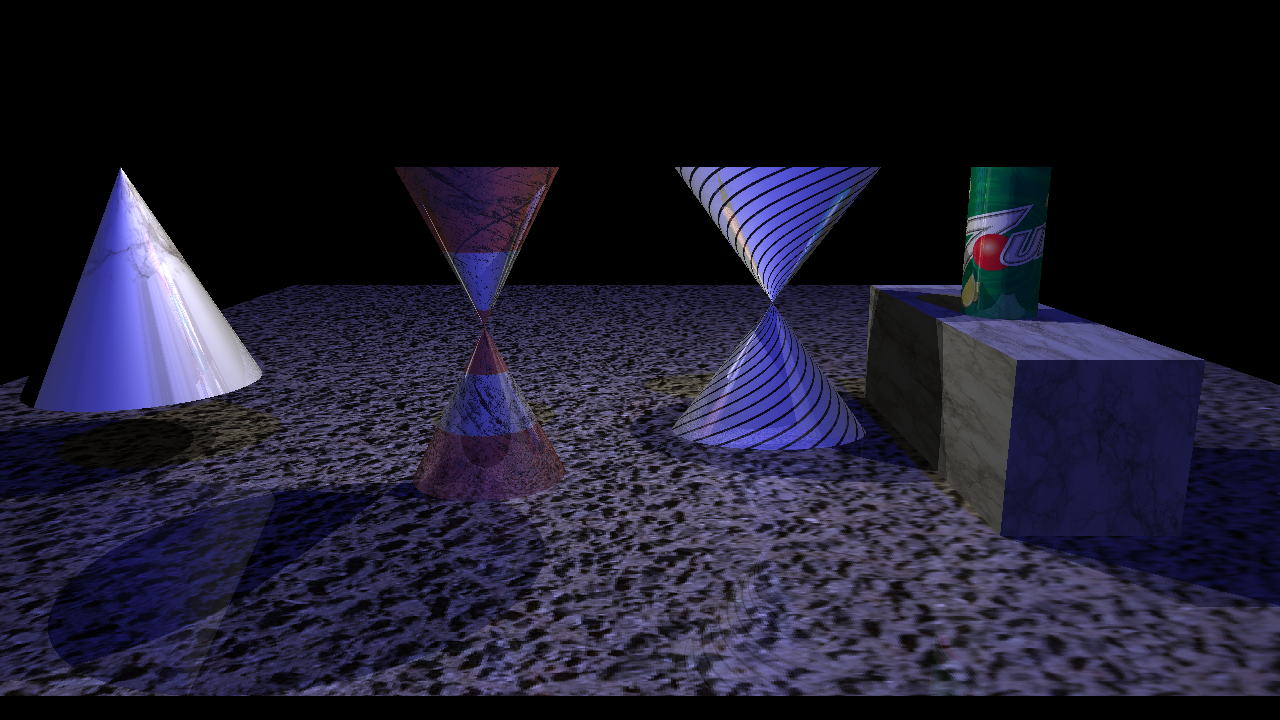
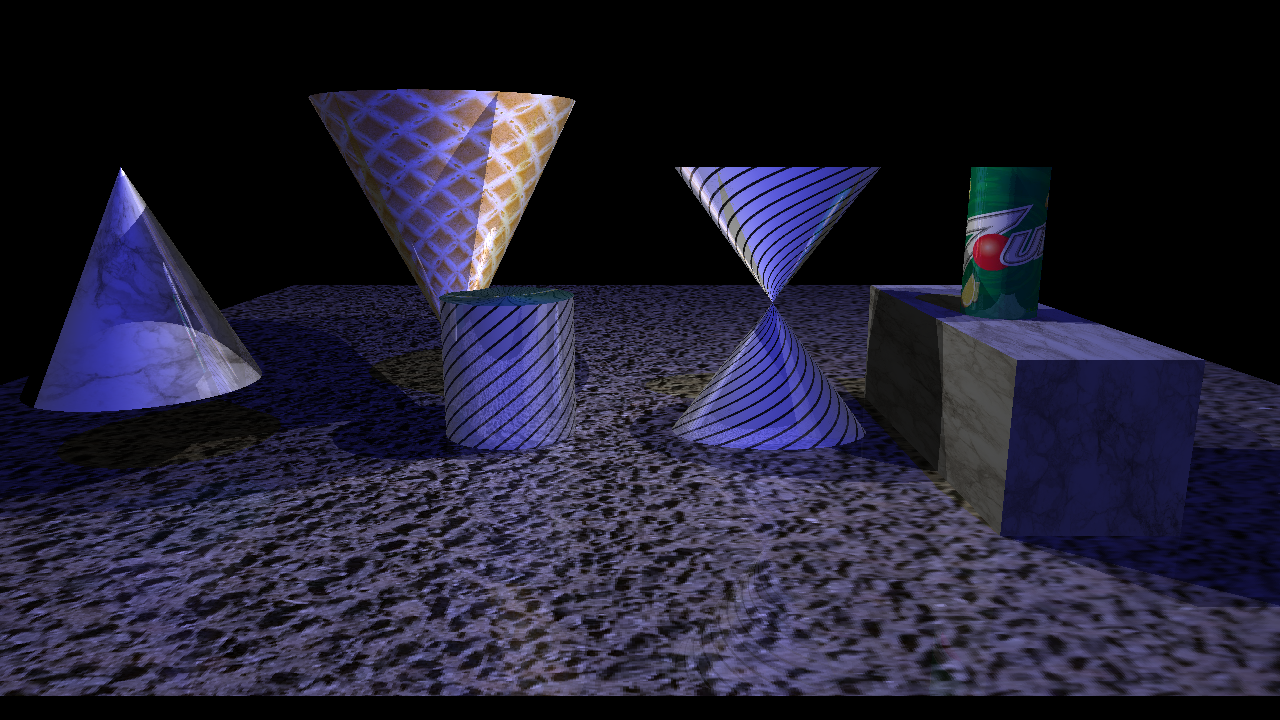
Temp commit - working on bugs in textures of cones and cylinders

Changed region(s): [[0.0, 0.1222, 0.4688, 0.9778], [0.5312, 0.4583, 0.5938, 0.6111], [0.5312, 0.2139, 0.5938, 0.3667]]

diff --git a/src/Cone.cpp b/src/Cone.cpp
@@ -8,7 +8,6 @@
 #include "Cone.h"
 
 
-
 bool Cone::intersectsRay(Ray &r, GLfloat &dist, vec3* point, vec3* normal, ObjectTexColors* texColors, ObjectProperties* properties)
 {
 	// To find intersection between Ray and canonical Cone (aligned to the y-axis), we need to solve the following equation:
@@ -22,10 +21,14 @@ bool Cone::intersectsRay(Ray &r, GLfloat &dist, vec3* point, vec3* normal, Objec
 	Ray tr = this->invTransform() * r; // Transformed ray
 	GLfloat A, B, C;
 	GLfloat discriminant, disc_root;
-	GLfloat t1 = INFINITY, t2 = INFINITY, t3 = INFINITY, t4 = INFINITY, t = INFINITY;
+	GLfloat t1 = INFINITY, t2 = INFINITY, t3 = INFINITY, t4 = INFINITY;
 	vec3    ip, ip2; // Intersection points
 
 	bool single_intersection = false;
+
+
+
+	GLfloat t_min = INFINITY, t_max = INFINITY;
 
 	A = (tr.direction.x*tr.direction.x) + (tr.direction.z*tr.direction.z) - (tr.direction.y*tr.direction.y);
 	B = (2*tr.origin.x*tr.direction.x) + (2*tr.origin.z*tr.direction.z) - (2*tr.origin.y*tr.direction.y);
@@ -45,7 +48,7 @@ bool Cone::intersectsRay(Ray &r, GLfloat &dist, vec3* point, vec3* normal, Objec
 	if (abs(t1 - t2) < EPSILON) {
 		// same solution
 		single_intersection = true;
-		t = t1;
+		t_min = t1;
 	}
 	else if (t1 > EPSILON && t2 > EPSILON) {
 		// Both positive
@@ -55,10 +58,10 @@ bool Cone::intersectsRay(Ray &r, GLfloat &dist, vec3* point, vec3* normal, Objec
 		// One positive, one negative
 		// or 2 negatives
 		single_intersection = true;
-		t = glm::max(t1, t2);
+		t_min = glm::max(t1, t2);
 	}
 
-	if (t < EPSILON) {
+	if (t_min < EPSILON) {
 		// If dist is a negative values (accounting for floating point errors)
 		// then both solutions were negative. Meaning we have to go back from the origin of
 		// the ray (against its direction) to the intersection point - which means of course that
@@ -66,8 +69,10 @@ bool Cone::intersectsRay(Ray &r, GLfloat &dist, vec3* point, vec3* normal, Objec
 		return false;
 	}
 
+
+
 	if (single_intersection) {
-		ip = tr.origin + t * tr.direction;
+		ip = tr.origin + t_min * tr.direction;
 		if (ip.y > maxCap || ip.y < minCap){
 			return false;
 		}
@@ -75,16 +80,21 @@ bool Cone::intersectsRay(Ray &r, GLfloat &dist, vec3* point, vec3* normal, Objec
 	}
 	else { // 2 intersections
 
-		GLfloat t_min, t_max;
+//		GLfloat /*t_min, t_max;
 		t_min = glm::min(t1,t2);
 		t_max = glm::max(t1,t2);
 
 		ip  = tr.origin + t_min * tr.direction;
 		ip2 = tr.origin + t_max * tr.direction;
 
+
+
 		if ((ip.y > maxCap && ip2.y > maxCap) || (ip.y < minCap && ip2.y < minCap) ){ // both intersection are on infinite cone (behind min or beyond max caps)
 			return false;
 		}
+
+//		printf("IP  (%f, %f, %f)\n", ip.x, ip.y, ip.z);
+//		printf("IP2 (%f, %f, %f)\n", ip2.x, ip2.y, ip2.z);
 
 		if ((ip.y < minCap && ip2.y > minCap) || (ip.y > minCap && ip2.y < minCap)) { // min cap intersection
 			t3 = (minCap - tr.origin.y) / tr.direction.y;
@@ -95,6 +105,9 @@ bool Cone::intersectsRay(Ray &r, GLfloat &dist, vec3* point, vec3* normal, Objec
 		}
 
 		t_min = glm::min(t_min, glm::min(t3,t4));
+//		if (ip.y < minCap) {
+//			t_min = t3;
+//		}
 		ip  = tr.origin + t_min * tr.direction;
 	}
 
@@ -117,9 +130,37 @@ bool Cone::intersectsRay(Ray &r, GLfloat &dist, vec3* point, vec3* normal, Objec
 	if (texColors) {
 
 		vec2 uv;
-		uv.x = (atan2(ip2.x, ip2.z) + PI) / (2*PI);
-		uv.y = 0.5 + (ip2.y) / (height);
-		uv = glm::clamp(uv, 0.f, 1.f);
+		uv.x = 0.5 + atan2(ip2.x, ip2.z) / (2*PI); // == (atan2(ip2.x, ip2.z) + PI) / (2*PI)
+		uv.y = (ip2.y - minCap) / (height);
+
+		if (uv.y < 0 || uv.y > 1 || uv.x < 0 || uv.x > 1) {
+//			printf("--------------------------\n");
+//			printf("IP: %f\n", ip.y);
+//			printf("IP2: %f\n", ip2.y);
+//			printf("(%f, %f)\n", uv.x, uv.y);
+//			printf("t1: %f\n", t1);
+//			printf("t2: %f\n", t2);
+//			printf("t3: %f\n", t3);
+//			printf("t4: %f\n", t4);
+//			printf("tmin: %f\n", t_min);
+//			printf("tmax: %f\n", t_max);
+//			printf("disc: %f\n", discriminant);
+//			printf("--------------------------\n");
+		}
+		if (ip2.y == minCap) {
+//			printf("*******************\n");
+//			printf("IP: %f\n", ip.y);
+//			printf("IP2: %f\n", ip2.y);
+//			printf("(%f, %f)\n", uv.x, uv.y);
+//			printf("t1: %f\n", t1);
+//			printf("t2: %f\n", t2);
+//			printf("t3: %f\n", t3);
+//			printf("t4: %f\n", t4);
+//			printf("tmin: %f\n", t_min);
+//			printf("tmax: %f\n", t_max);
+//			printf("disc: %f\n", discriminant);
+//			printf("*******************\n");
+		}
 
 		texColors->_ambientTexColor  = this->getAmbientTextureColor(uv);
 		texColors->_diffuseTexColor  = this->getDiffuseTextureColor(uv);
@@ -132,6 +173,7 @@ bool Cone::intersectsRay(Ray &r, GLfloat &dist, vec3* point, vec3* normal, Objec
 
 	return true;
 }
+
 
 
 vec3 Cone::_normalAt(const vec3& p)
@@ -151,5 +193,6 @@ void Cone::print() const
 	std::cout << "Cone Center: (" << center.x << "," << center.y << "," << center.z << ") | Radius: " << radius << " | minCap: " << minCap << " | Max Cap: " << maxCap << std::endl;
 	Object::print();
 }
+
 
 

diff --git a/src/Cylinder.cpp b/src/Cylinder.cpp
@@ -10,8 +10,6 @@
 
 using namespace glm;
 
-
-
 bool Cylinder::intersectsRay(Ray &r, GLfloat &dist, vec3* point, vec3* normal, ObjectTexColors* texColors, ObjectProperties* properties)
 {
 	// To find intersection between Ray and canonical cylinder (aligned to the y-axis), we need to solve the following equation:
@@ -99,6 +97,12 @@ bool Cylinder::intersectsRay(Ray &r, GLfloat &dist, vec3* point, vec3* normal, O
 		}
 
 		t_min = glm::min(t_min, glm::min(t3,t4));
+		if (ip.y < minCap) {
+					t_min = t3;
+				}
+		if (ip.y > maxCap) {
+			t_min = t4;
+		}
 		ip  = tr.origin + t_min * tr.direction;
 	}
 
@@ -120,12 +124,9 @@ bool Cylinder::intersectsRay(Ray &r, GLfloat &dist, vec3* point, vec3* normal, O
 		*normal = n;
 	}
 	if (texColors) {
-
 		vec2 uv;
-		uv.x = (atan2(ip2.x, ip2.z) + PI) / (2*PI);
-		uv.y = 0.5 + (ip2.y) / (maxCap - minCap);
-//		uv = glm::clamp(uv,0.f, 1.f);
-
+		uv.x = 0.5 + atan2(ip2.x, ip2.z) / (2*PI); // == (atan2(ip2.x, ip2.z) + PI) / (2*PI);
+		uv.y = (ip2.y - minCap) / (maxCap - minCap); // ==  0.5 + ip2.y / (maxCap - minCap) - because maxCap = -minCap;
 		texColors->_ambientTexColor  = this->getAmbientTextureColor(uv);
 		texColors->_diffuseTexColor  = this->getDiffuseTextureColor(uv);
 		texColors->_specularTexColor = this->getSpecularTextureColor(uv);

diff --git a/src/Box.cpp b/src/Box.cpp
@@ -16,7 +16,7 @@ bool Box::intersectsRay(Ray &r, GLfloat &dist, vec3* point, vec3* normal, Object
 {
 
 	Ray tr = this->invTransform() * r; // Transformed ray
-	float tmin, tmax, tymin, tymax, tzmin, tzmax;
+	GLfloat tmin, tmax, tymin, tymax, tzmin, tzmax;
 	vec3 ip{}, ip2{};
 	vec3 n;
 
@@ -46,9 +46,9 @@ bool Box::intersectsRay(Ray &r, GLfloat &dist, vec3* point, vec3* normal, Object
 		tmax = tzmax;
 	}
 
-	if (tmin < 0) {
+	if (tmin < 0 || isnan(tmin)) {
 		tmin = tmax;
-		if (tmin < 0) {
+		if (tmin < 0 || isnan(tmin)) {
 //			 If dist is a negative values (accounting for floating point errors)
 //			 then both solutions were negative. Meaning we have to go back from the origin of
 //			 the ray (against its direction) to the intersection point - which means of course that

diff --git a/src/main.cpp b/src/main.cpp
@@ -204,7 +204,7 @@ int main(int argc, char *argv[])
 		gettimeofday(&end, NULL);
 
 		time = ((end.tv_sec  - start.tv_sec) * 1000000u + end.tv_usec - start.tv_usec) / 1.e6;
-		cout << "\tTime took: " << setprecision(1) << time  <<  " seconds. \n" << endl;
+		cout << "\tTime took: " << setprecision(2) << time  <<  " seconds. \n" << endl;
 		totalTime += time;
 
 	}

diff --git a/src/Sphere.cpp b/src/Sphere.cpp
@@ -86,7 +86,7 @@ bool Sphere::intersectsRay(Ray &r, GLfloat &dist, vec3* point, vec3* normal, Obj
 	if (texColors) {
 
 		vec2 uv;
-		uv.x = 0.5 + atan2(n.x, n.z) / (2 * PI);
+		uv.x = 0.5 + atan2(n.x, n.z) / (2*PI);
 		uv.y = 0.5 + 0.5 * n.y;
 		//uv.y = 0.5 - asin(n.y) / PI;
 		texColors->_ambientTexColor  = this->getAmbientTextureColor(uv);
